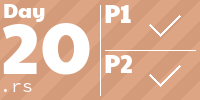
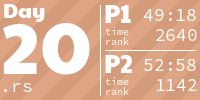
day 20 2024 solution

diff --git a/2024/src/bin/20.rs b/2024/src/bin/20.rs
@@ -1,33 +1,201 @@
+#![warn(clippy::pedantic)]
+#![allow(clippy::missing_panics_doc)]
+use aoc_2024::{time_execution, Grid, Point};
+use std::collections::VecDeque;
+
 static INPUT_TXT: &str = include_str!("../../input/20.txt");
 
 fn main() {
-    println!("Part 1: {}", part_1(INPUT_TXT));
-    println!("Part 2: {}", part_2(INPUT_TXT));
+    println!("🌟 --- Day 20 Results --- 🌟");
+    let (res_1, duration_1) = time_execution(|| part_1(INPUT_TXT));
+    println!("📌 Part 1: {res_1}, complete in {duration_1} ms");
+
+    let (res_2, duration_2) = time_execution(|| part_2(INPUT_TXT));
+    println!("📌 Part 2: {res_2}, complete in {duration_2} ms");
 }
 
-fn part_1(_input: &str) -> u32 {
-    0
+struct SearchConfig {
+    max_distance: i32,
+    distance_check: fn(i32) -> bool,
+    distance_add: fn(i32) -> i64,
 }
 
-fn part_2(_input: &str) -> u32 {
-    0
+fn count_paths(
+    input: &Grid<char>,
+    config: &SearchConfig,
+    target: i64,
+    exact_distance: bool,
+) -> i64 {
+    let start_position = input.find_position('S').expect("No start Position");
+    let end_position = input.find_position('E').expect("No end Position");
+    let start_distance = bfs(input, start_position);
+    let end_distance = bfs(input, end_position);
+    let orig_distance = end_distance.get(start_position).unwrap();
+
+    input
+        .iter()
+        .filter(|&(p, c)| *c != '#' && start_distance.get(p).unwrap() != i64::MAX)
+        .flat_map(|(mid_point, _)| {
+            let start_distance = start_distance.clone();
+            let end_distance = end_distance.clone();
+            generate_end_points(mid_point, config)
+                .filter(|(e, _)| input.in_bounds(*e))
+                .filter(|(e, _)| input.get(*e) != Some('#'))
+                .filter_map(move |(end_point, manhattan)| {
+                    if end_distance.get(end_point) == Some(i64::MAX) {
+                        return None;
+                    }
+
+                    let start_dist = start_distance.get(mid_point)?;
+                    let end_dist = end_distance.get(end_point)?;
+                    let new_distance = start_dist + end_dist + (config.distance_add)(manhattan);
+
+                    match exact_distance {
+                        true if (new_distance + target) == orig_distance => Some(1),
+                        false if (new_distance + target) <= orig_distance => Some(1),
+                        _ => None,
+                    }
+                })
+        })
+        .sum::<i64>()
+}
+
+fn generate_end_points(
+    mid_point: Point,
+    config: &SearchConfig,
+) -> impl Iterator<Item = (Point, i32)> + '_ {
+    let max_d = config.max_distance;
+    (-max_d..=max_d)
+        .flat_map(move |r| (-max_d..=max_d).map(move |c| Point::new(c, r)))
+        .map(move |offset| {
+            let end_point = mid_point + offset;
+            let manhattan = mid_point.manhattan_distance(Point::new(0, 0));
+            (end_point, manhattan)
+        })
+        .filter(|&(_, manhattan)| (config.distance_check)(manhattan))
+}
+
+fn bfs(input: &Grid<char>, start: Point) -> Grid<i64> {
+    let dimensions = Point::from((input.width, input.height));
+    let mut distance = Grid::new(dimensions, i64::MAX);
+    let mut queue = VecDeque::from([(start, 0)]);
+    while let Some((position, cost)) = queue.pop_front() {
+        if distance.get(position).unwrap() != i64::MAX {
+            continue;
+        }
+        distance.set(position, cost);
+        let next_steps = position
+            .neighbours()
+            .into_iter()
+            .filter(|&adj| {
+                input.in_bounds(adj)
+                    && distance.get(adj).unwrap() == i64::MAX
+                    && input.get(adj).unwrap() != '#'
+            })
+            .map(|adj| (adj, cost + 1));
+        queue.extend(next_steps);
+    }
+    distance
+}
+
+fn part_1(input: &str) -> i64 {
+    let grid = Grid::from(
+        input
+            .lines()
+            .map(|line| line.chars().collect())
+            .collect::<Vec<_>>(),
+    );
+    let config = SearchConfig {
+        max_distance: 2,
+        distance_check: |d| d == 2,
+        distance_add: |_| 2,
+    };
+    count_paths(&grid, &config, 100, false)
+}
+
+fn part_2(input: &str) -> i64 {
+    let grid = Grid::from(
+        input
+            .lines()
+            .map(|line| line.chars().collect())
+            .collect::<Vec<_>>(),
+    );
+    let config = SearchConfig {
+        max_distance: 20,
+        distance_check: |d| d <= 20,
+        distance_add: |d| i64::from(d),
+    };
+    count_paths(&grid, &config, 100, false)
 }
 
 #[cfg(test)]
 mod tests {
     use super::*;
-    static INPUT: &str = "";
-    static INPUT_2: &str = "";
+    static INPUT: &str = "###############
+#...#...#.....#
+#.#.#.#.#.###.#
+#S#...#.#.#...#
+#######.#.#.###
+#######.#.#...#
+#######.#.###.#
+###..E#...#...#
+###.#######.###
+#...###...#...#
+#.#####.#.###.#
+#.#...#.#.#...#
+#.#.#.#.#.#.###
+#...#...#...###
+###############";
 
     #[test]
     fn test_part_1() {
-        assert_eq!(part_1(INPUT), 0);
-        assert_eq!(part_1(INPUT_TXT), 0);
+        assert_eq!(part_1(INPUT_TXT), 1452);
+    }
+
+    #[test]
+    fn test_part2_specific_savings() {
+        let grid = Grid::from(
+            INPUT
+                .lines()
+                .map(|line| line.chars().collect())
+                .collect::<Vec<_>>(),
+        );
+
+        let config = SearchConfig {
+            max_distance: 20,
+            distance_check: |d| d <= 20,
+            distance_add: |d| i64::from(d),
+        };
+
+        let savings = vec![
+            (50, 32), // 32 cheats saving 50 picoseconds
+            (52, 31), // 31 cheats saving 52 picoseconds
+            (54, 29), // 29 cheats saving 54 picoseconds
+            (56, 39), // 39 cheats saving 56 picoseconds
+            (58, 25), // 25 cheats saving 58 picoseconds
+            (60, 23), // 23 cheats saving 60 picoseconds
+            (62, 20), // 20 cheats saving 62 picoseconds
+            (64, 19), // 19 cheats saving 64 picoseconds
+            (66, 12), // 12 cheats saving 66 picoseconds
+            (68, 14), // 14 cheats saving 68 picoseconds
+            (70, 12), // 12 cheats saving 70 picoseconds
+            (72, 22), // 22 cheats saving 72 picoseconds
+            (74, 4),  // 4 cheats saving 74 picoseconds
+            (76, 3),  // 3 cheats saving 76 picoseconds
+        ];
+
+        for (saving, expected_count) in savings {
+            let count = count_paths(&grid, &config, saving, true);
+            assert_eq!(
+                count, expected_count,
+                "Expected {} cheats saving exactly {} picoseconds",
+                expected_count, saving
+            );
+        }
     }
 
     #[test]
     fn test_part_2() {
-        assert_eq!(part_2(INPUT_2), 0);
-        assert_eq!(part_2(INPUT_TXT), 0);
+        assert_eq!(part_2(INPUT_TXT), 999556);
     }
 }

diff --git a/2024/src/grid.rs b/2024/src/grid.rs
@@ -1,5 +1,5 @@
 use crate::Point;
-use std::iter::Iterator;
+use std::{cmp::PartialEq, iter::Iterator};
 
 #[derive(Debug, Clone)]
 pub struct Grid<T> {
@@ -85,7 +85,7 @@ impl<T: Clone + Copy> FromIterator<Vec<T>> for Grid<T> {
     }
 }
 
-impl<T: Clone + Copy> Grid<T> {
+impl<T: Clone + Copy + PartialEq> Grid<T> {
     pub fn new(pos: Point, fill: T) -> Self {
         let width = usize::try_from(pos.x).expect("number too large") + 1;
         let height = usize::try_from(pos.y).expect("number too large") + 1;
@@ -126,6 +126,10 @@ impl<T: Clone + Copy> Grid<T> {
         let x = usize::try_from(pos.x).expect("number too large");
         let y = usize::try_from(pos.y).expect("number too large");
         (x) < self.width && (y) < self.height
+    }
+
+    pub fn find_position(&self, target: T) -> Option<Point> {
+        self.iter().find(|(_, &c)| c == target).map(|(p, _)| p)
     }
 }
 

diff --git a/README.md b/README.md
@@ -4,7 +4,7 @@ Solutions for [adventofcode.com](https://adventofcode.com)
 
  <!-- AOC TILES BEGIN -->
 <h1 align="center">
-  2024 - 38 ⭐
+  2024 - 40 ⭐
 </h1>
 <a href="2024/src/bin/01.rs">
   <img src=".aoc_tiles/tiles/2024/01.png" width="161px">
@@ -62,6 +62,9 @@ Solutions for [adventofcode.com](https://adventofcode.com)
 </a>
 <a href="2024/src/bin/19.rs">
   <img src=".aoc_tiles/tiles/2024/19.png" width="161px">
+</a>
+<a href="2024/src/bin/20.rs">
+  <img src=".aoc_tiles/tiles/2024/20.png" width="161px">
 </a>
 <h1 align="center">
   2023 - 50 ⭐
